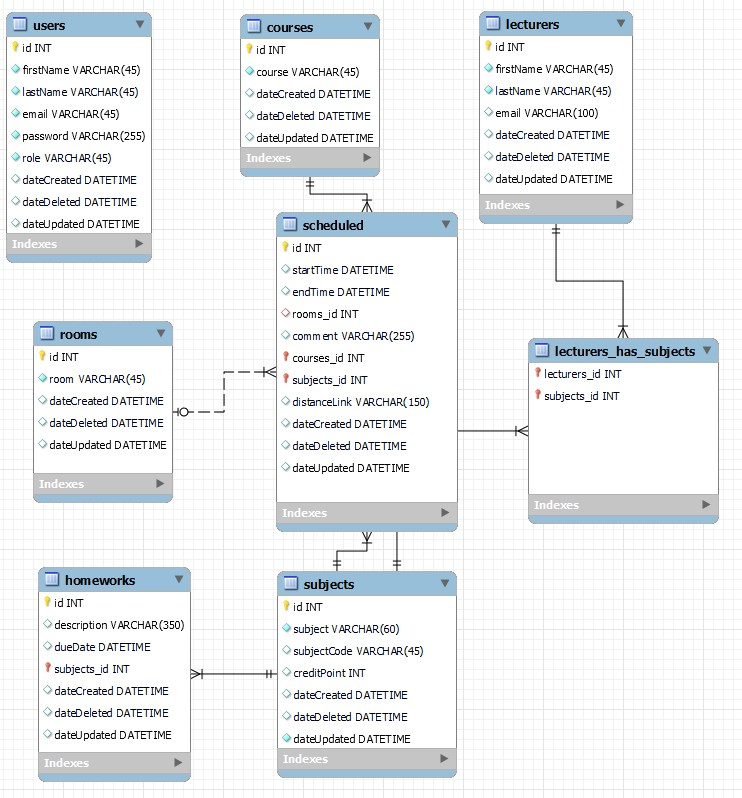
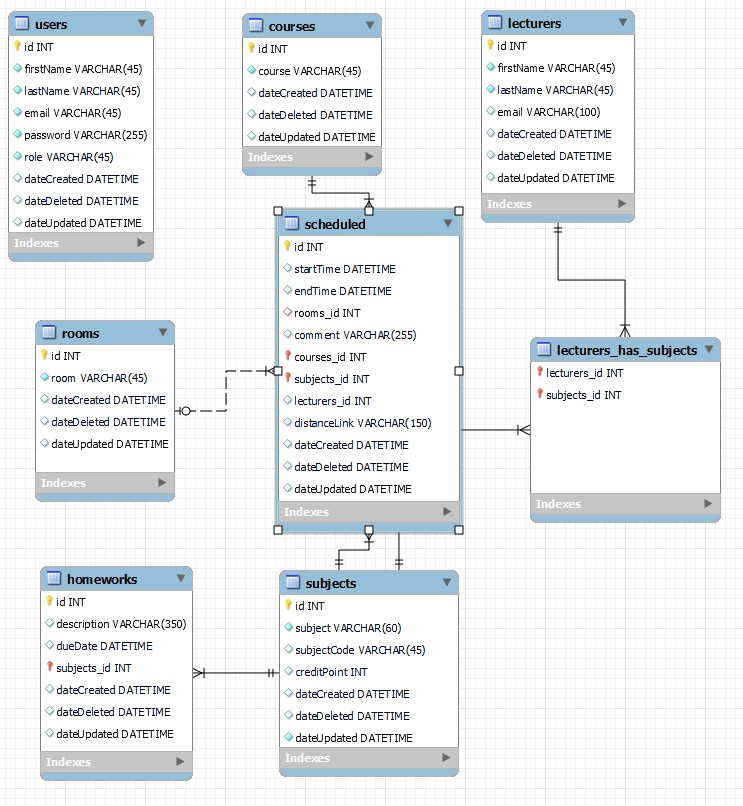
scedule lisamine pooleli, osaliselt toimib

diff --git a/development/api/src/components/schedule/service.ts b/development/api/src/components/schedule/service.ts
@@ -1,4 +1,4 @@
-import { FieldPacket, ResultSetHeader } from "mysql2";
+import { FieldPacket, ResultSetHeader,RowDataPacket } from "mysql2";
 import pool from "../../database";
 import { ISchedule } from "./interface";
 
@@ -38,13 +38,77 @@ const scheduleService = {
         lecturers ON lecturers.id = lecturers_has_subjects.lecturers_id
             WHERE scheduled.courses_id = ?
         GROUP BY courses.course, rooms.room, scheduled.subjects_id, scheduled.startTime, scheduled.endTime, scheduled.comment
-        ORDER BY scheduled.startTime;`[courseId]
-      );
+        ORDER BY scheduled.startTime;`,[courseId]);
+      
       return scheduleByCourse;
     } catch (error) {
       return false;
     }
   },
+
+// ----------------------
+createSchedule: async (startTime:string, endTime:string, room: string, comment:string, course:number, subject:string, 
+  firstName:string, lastName:string, distanceLink:string ): Promise<number | false> => {
+    let rooms_id: number = 1;
+    let courses_id: number = 1;
+    let subjects_id: number = 1;
+    let lecturers_id: number = 1;   
+    try {
+      const [roomsid]: [RowDataPacket[], FieldPacket[]] = await pool.query(
+        `SELECT id FROM rooms WHERE room = ?`,[room]);
+  
+      console.log("roomsid: ",roomsid[0].id);
+      rooms_id = roomsid[0].id;
+    } catch (error) {
+      return false;
+    }
+
+    try {
+      const [courseid]: [RowDataPacket[], FieldPacket[]] = await pool.query(
+        `SELECT id FROM courses WHERE course = ?`,[course]);
+  
+      console.log(courseid[0].id);
+      courses_id = courseid[0].id;
+    } catch (error) {
+      return false;
+    }
+  
+    try {
+      const [subjectid]: [RowDataPacket[], FieldPacket[]] = await pool.query(
+        `SELECT id FROM subjects WHERE subject = ?`,[subject]);
+  
+      console.log(subjectid[0].id);
+      subjects_id = subjectid[0].id;
+    } catch (error) {
+      return false;
+    }
+
+    console.log("Eesnimi: ",firstName,"Perenimi: ", lastName);
+    try {
+      const [lecturid]: [RowDataPacket[], FieldPacket[]] = await pool.query(
+        `SELECT id FROM lecturers WHERE firstName = ? AND lastName = ?`,[firstName, lastName]);
+  
+      console.log(lecturid[0].id);
+      lecturers_id = lecturid[0].id;
+    } catch (error) {
+      // return false;
+    }
+
+
+
+    try {
+    const [createdChedule]: [ResultSetHeader, FieldPacket[]] = await pool.query(
+      `INSERT INTO scheduled 
+      (startTime, endTime, rooms_id, comment, courses_id, subjects_id, lecturers_id, distanceLink) VALUES
+      ( ?,?,?,?,?,?,?);`,
+      [startTime, endTime, rooms_id, comment, courses_id, subjects_id, lecturers_id, distanceLink] );
+
+
+    return createdChedule.insertId;
+  } catch (error) {
+    return false;
+  }
+},
 };
 
 export default scheduleService;

diff --git a/development/api/src/components/schedule/controller.ts b/development/api/src/components/schedule/controller.ts
@@ -13,6 +13,36 @@ const scheduleController = {
       error: "Server error",
     });
   },
+
+
+createSchedule: async (req: Request, res: Response) => {
+  const { startTime, endTime, room, comment, course, subject, lecturer,
+  distanceLink } = req.body;
+
+  if (!startTime) {
+    return res.status(responseCodes.badRequest).json({
+      error: "startTime is missing",
+    });
+  }
+
+  if (!endTime) {
+    return res.status(responseCodes.badRequest).json({
+      error: "endTime is missing",
+    });
+  }
+  const lecturerName = lecturer.split(" ");
+  const lecturerFist = lecturerName[0];
+  const lecturerLast = lecturerName[1];
+
+  const schedule = await scheduleService.createSchedule(startTime, endTime, room, comment, course, subject, 
+    lecturerFist, lecturerLast, distanceLink);
+  if (schedule) {
+    return res.status(responseCodes.ok).json({ schedule });
+  }
+  return res.status(responseCodes.ServerError).json({
+    error: "Server error",
+  });
+},
 };
 
 export default scheduleController;

diff --git a/development/api/src/app.ts b/development/api/src/app.ts
@@ -51,21 +51,15 @@ app.patch("/users/:id", checkAlphabet, userController.updateUserById);
 //Schedule endpoints
 
 app.get("/schedule", scheduleController.getEntireSchedule);
+app.post("/schedule", scheduleController.createSchedule);
 
 // Lecturer endpoints
 app.get("/lecturers", lecturerController.getAllLecturersById);
 app.get("/lecturers/activeSubjects", lecturerController.getLecturersSubjects);
 app.get("/lecturers/:id", lecturerController.getLecturerById);
 app.post("/lecturers", checkAlphabet, lecturerController.addLecturer);
-app.delete(
-  "/lecturers/:id",
-  lecturerController.deleteLecturerWhenNoSubjectsById
-);
-app.patch(
-  "/lecturers/:id",
-  checkAlphabet,
-  lecturerController.updateLecturerById
-);
+app.delete("/lecturers/:id", lecturerController.deleteLecturerWhenNoSubjectsById);
+app.patch("/lecturers/:id", checkAlphabet, lecturerController.updateLecturerById);
 
 // Subjects endpoints
 app.get("/subjects", subjectController.getAllSubjects);

diff --git a/development/api/src/components/homework/controller.ts b/development/api/src/components/homework/controller.ts
@@ -89,9 +89,6 @@ const homeworkController = {
     });
   },
 
-
-
-
   addHomework: async (req: Request, res: Response) => {
     let { description, dueDate, subjectCode, subjects_id } = req.body;
     
